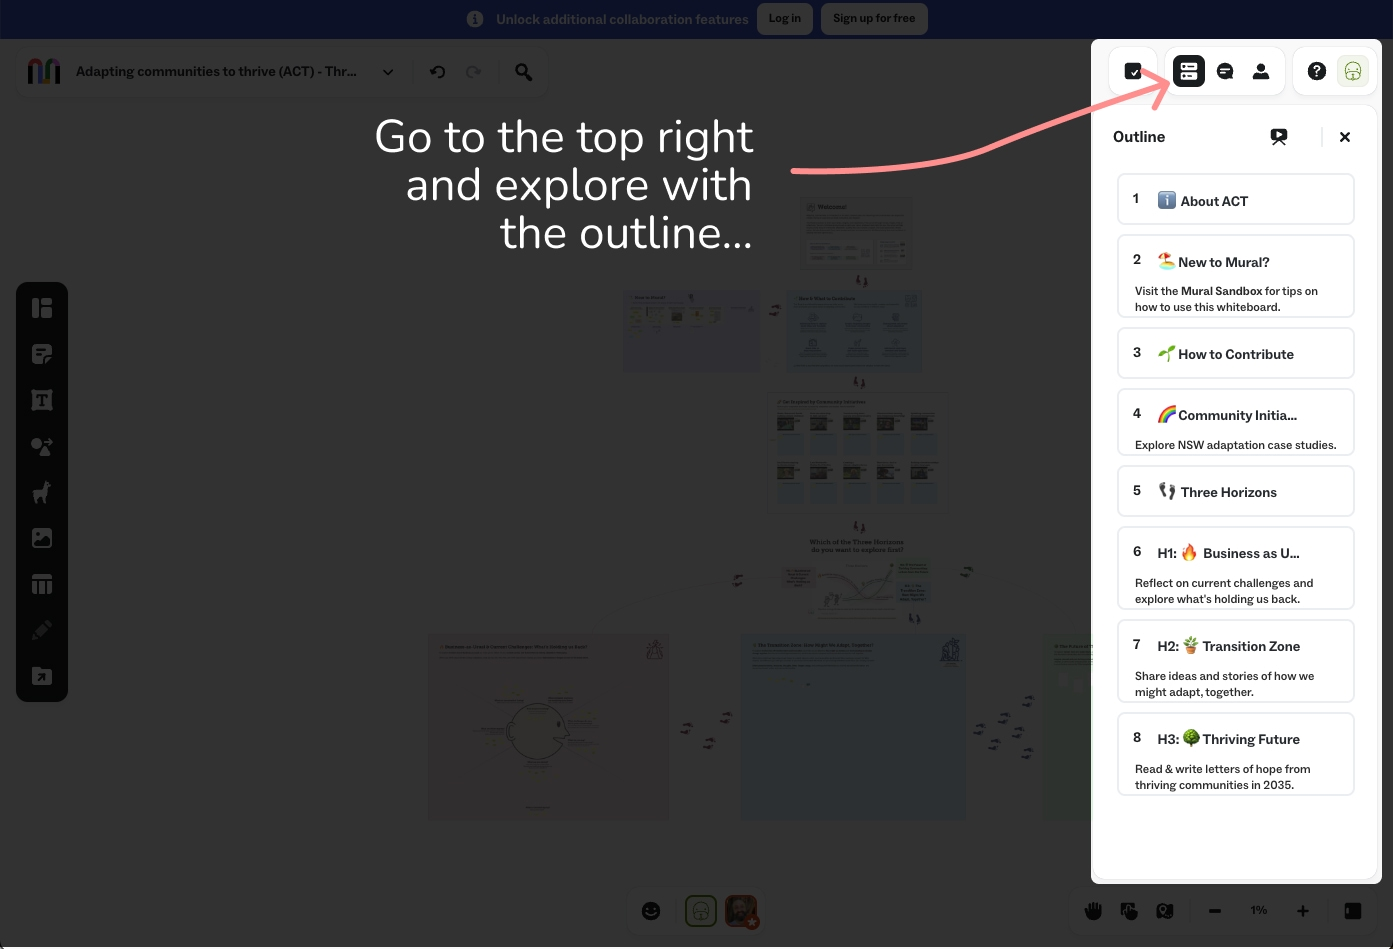
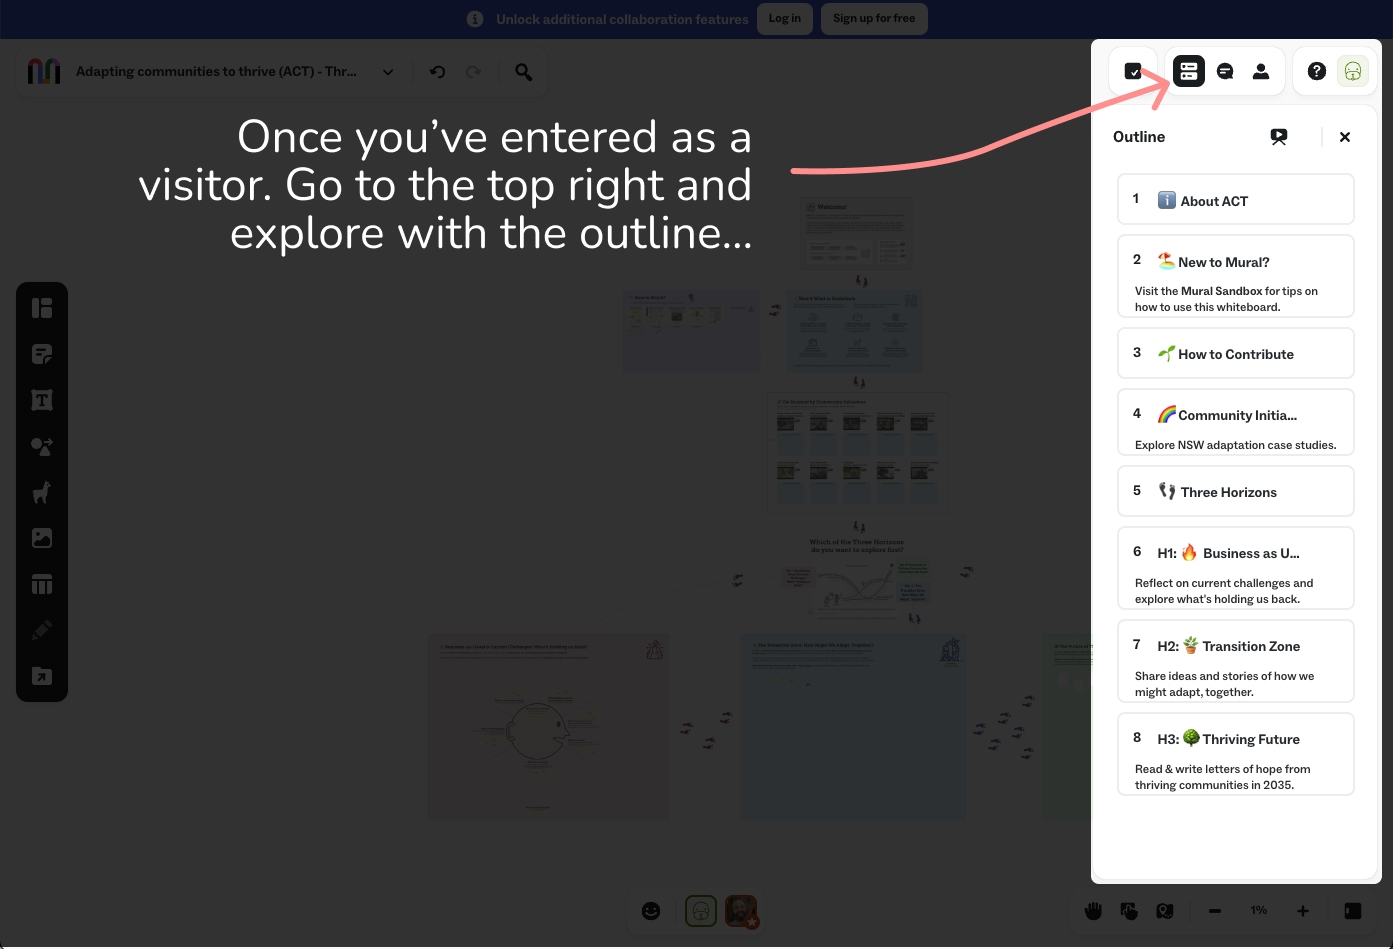
modify ACT post

Changed region(s): [[0.0926, 0.1222, 0.5556, 0.275]]

diff --git a/_posts/2025-03-06-a-living-story-of-adapting-communities-to-thrive.md b/_posts/2025-03-06-a-living-story-of-adapting-communities-to-thrive.md
@@ -32,7 +32,7 @@ This digital canvas can become a living map of our collective intelligence, a sp
 
 ## Why a Mural for Adaptation?
 
-The scale and complexity of climate adaptation requires a new form of collaborative intelligence. A form that can honor local knowledge while enabling shared learning across communities. One that inspire us to imagine and co-create a future where we can thrive.
+The scale and complexity of climate adaptation requires a new form of collaborative intelligence. A form that can honour local knowledge while enabling shared learning across communities. One that inspire us to imagine and co-create a future where we can thrive.
 
 The ACT Mural offers a space where:
 
@@ -47,7 +47,7 @@ This isn't just another online whiteboard, it's living map of collective intelli
 
 The Mural is structured around the **Three Horizons framework**: a powerful way to imagine and navigate transformation.
 
-- **Horizon 1: Business-as-Usual & Current Challenges**: What's holding us back? What challenges do you see in your community? What are people saying—or not saying—about climate change?
+- **Horizon 1: Business-as-Usual & Current Challenges**: What's holding us back? What challenges do you see in your community? What are people saying (or not saying) about climate change?
 
 - **Horizon 2: The Transition Zone**: How might we adapt together? What seeds are you planting, both literal and metaphorical? What emerging experiments inspire you? How might we build bridges between composting the old and crafting the new?
 
@@ -97,9 +97,6 @@ Your contributions become part of a growing body of knowledge about how we might
 _Note: The Mural is a public space, and your contributions will be visible to others. Please be aware of your own privacy and that of others you may share stories about, and only share content that you are comfortable with being public._
 
 <figure>
-  <img src="{{ site.baseurl }}/assets/images/posts/enter-as-ACT-as-visitor.jpg" alt="Image of the Mural with instruction explaining to enter as a visitor" class="blog-image">
-</figure>
-<figure>
   <img src="{{ site.baseurl }}/assets/images/posts/ACT-Mural-Outline.jpg" alt="Image of the Mural with instruction pointing how to start with the outline" class="blog-image">
 </figure>
 
@@ -125,8 +122,6 @@ _Note: The Mural is a public space, and your contributions will be visible to ot
 The Mural is one piece of a larger journey of collective futurecrafting with the AdaptNSW community. Here are a few ways to get involved...
 
 **Join the Pol.is** <a href="https://pol.is/2iyhcxfjkr" target="_blank"><strong>conversation here</strong></a> and share your perspective on what becomes possible when we weave together the transformative power of community-led adaptation
-
-**Attend the AdaptNSW ACT event!** <a href="https://events.humanitix.com/adapting-communities-to-thrive" target="_blank"> Get your free tickets</a> and experience emerging insights through film, art and dialogue at our family-friendly evening on Friday, March 14th for Climate Action Week
 
 <a href="https://www.climatechange.environment.nsw.gov.au/home" target="_blank"> Explore the AdaptNSW website</a> and connect with broader adaptation initiatives and trusted, localised climate information
 
